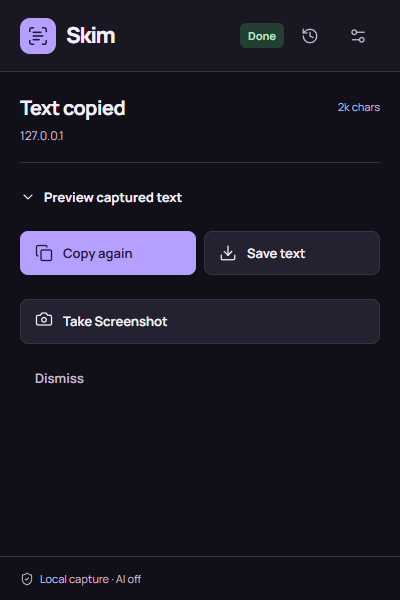
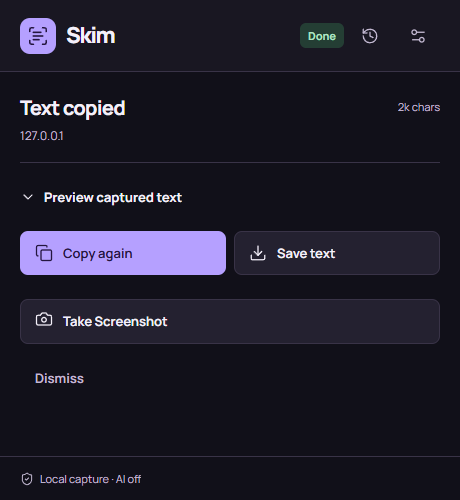
style: make the fixed popup wider and shorter

diff --git a/popup.css b/popup.css
@@ -2,7 +2,7 @@
 *,*::before,*::after{box-sizing:border-box;margin:0;padding:0}
 :root{color-scheme:dark;--bg:#111019;--surface:#191722;--surface2:#242130;--border:#393347;--border2:#625970;--text:#f4f0fa;--muted:#c3b9d2;--dim:#b2a6c3;--accent:#b5a0ff;--accent-bg:#352b50;--accent-fg:#d5c8ff;--on-accent:#24163f;--ok-bg:#243e34;--ok-fg:#b0e4c4;--err-bg:#472f2b;--err-fg:#ffbcae;--r:12px;--r-sm:8px}
 [data-theme=light]{color-scheme:light;--bg:#f6f3fa;--surface:#fffdfF;--surface2:#ede7f5;--border:#d8cee5;--border2:#afa0c2;--text:#30233f;--muted:#665276;--dim:#705d80;--accent:#6942b7;--accent-bg:#e9def8;--accent-fg:#563094;--on-accent:#fff;--ok-bg:#deeddf;--ok-fg:#285f3d;--err-bg:#f9e5df;--err-fg:#9e3025}
-body{font-family:Manrope,sans-serif;background:var(--bg);color:var(--text);width:400px;max-width:100vw;font-size:13px;line-height:1.55;-webkit-font-smoothing:antialiased}
+body{font-family:Manrope,sans-serif;background:var(--bg);color:var(--text);width:460px;max-width:100vw;font-size:13px;line-height:1.55;-webkit-font-smoothing:antialiased}
 button,input,select,textarea{font:inherit}button{cursor:pointer}button:disabled{opacity:.45;cursor:default}button,input,select,textarea,summary{outline-offset:3px}button:focus-visible,input:focus-visible,select:focus-visible,textarea:focus-visible,summary:focus-visible{outline:2px solid var(--accent)}
 svg{width:18px;height:18px;fill:none;stroke:currentColor;stroke-width:1.75;stroke-linecap:round;stroke-linejoin:round;flex-shrink:0}
 .app-header{display:flex;align-items:center;justify-content:space-between;padding:12px 20px;border-bottom:1px solid var(--border);background:var(--surface)}.logo{display:flex;align-items:center;gap:10px}.logo-box{display:grid;place-items:center;width:36px;height:36px;border-radius:10px;background:var(--accent);color:var(--on-accent)}.logo-box svg{width:22px;height:22px}.logo-name{font-weight:800;font-size:22px;letter-spacing:-.06em}.header-right{display:flex;align-items:center;gap:4px}.icon-btn{width:44px;height:44px;border:0;background:transparent;color:var(--muted);border-radius:var(--r-sm);display:grid;place-items:center}.icon-btn:hover,.icon-btn.active{background:var(--accent-bg);color:var(--accent-fg)}
@@ -15,6 +15,6 @@ details.sec-collapsible{border-top:1px solid var(--border);padding-top:12px}summ
 #history .body{gap:4px;min-height:100px}.h-empty{padding:32px 0;text-align:center;color:var(--muted)}.h-item{display:flex;align-items:center;gap:12px;width:100%;padding:12px 8px;border:0;border-bottom:1px solid var(--border);background:transparent;color:var(--text);text-align:left;min-height:64px}.h-item:hover{background:var(--surface2)}.h-icon{color:var(--muted);display:flex}.h-meta{min-width:0;flex:1}.h-url{font-weight:650;overflow:hidden;text-overflow:ellipsis;white-space:nowrap}.h-info,.h-ago{font-size:11px;color:var(--muted)}.h-footer{display:flex;justify-content:space-between;padding:8px 20px;border-top:1px solid var(--border)}.h-footer .btn{width:auto}.local-footer{padding:12px 20px;color:var(--muted);font-size:11px;border-top:1px solid var(--border);display:flex;align-items:center;gap:6px}.local-footer svg{width:14px;height:14px}
 @media(prefers-reduced-motion:reduce){*,*::before,*::after{animation:none!important;transition:none!important}.fill.pulse{width:50%}}
 
-body{display:flex;flex-direction:column;height:600px;max-height:600px;overflow:hidden}.app-header,.local-footer,#youtube-controls{flex-shrink:0}.panel{min-height:0;flex:1;max-height:none}.local-footer{margin-top:auto}
+body{display:flex;flex-direction:column;height:500px;max-height:500px;overflow:hidden}.app-header,.local-footer,#youtube-controls{flex-shrink:0}.panel{min-height:0;flex:1;max-height:none}.local-footer{margin-top:auto}
 .app-header{height:72px}.local-footer{height:44px}.local-footer span{min-width:0;overflow:hidden;text-overflow:ellipsis;white-space:nowrap}
 /* A fixed frame: only the active panel scrolls between loading, review and settings. */

diff --git a/TESTING.md b/TESTING.md
@@ -22,7 +22,7 @@ No production API key is required. The provider tests use synthetic responses. `
 | `verify-capture.cjs` | Browser scroll orchestration, nested crop, restoration and failed-tile handling with simulated tile messages. |
 | `verify-youtube.cjs` | Legacy renderer, earlier view-model and current native view-model layouts: timestamp links, every fixture segment and scroll restoration. |
 | `verify-permissions.cjs` | Exact production manifest in a fresh Chrome profile: native popup registration; no installed host/clipboard-read grants; scripting, screenshot and provider network access denied without permission. |
-| `verify-e2e.cjs` | An isolated unpacked Chromium extension exercising actual scripting, capture, storage, PNG clipboard and downloads. Pixel checks cover nested stitching, ordinary horizontal overflow, part seams, input masks and manually reviewed masks. Full text downloads and all-part ZIPs are read back. Keyboard controls and the fixed 400 × 600 popup are checked. |
+| `verify-e2e.cjs` | An isolated unpacked Chromium extension exercising actual scripting, capture, storage, PNG clipboard and downloads. Pixel checks cover nested stitching, ordinary horizontal overflow, part seams, input masks and manually reviewed masks. Full text downloads and all-part ZIPs are read back. Keyboard controls and the fixed 460 × 500 popup are checked. |
 
 E2E fixtures also cover native transcript controls, scrolling, timestamp records and failure without clipboard replacement. They are controlled DOM fixtures, not live YouTube acceptance.
 

diff --git a/README.md b/README.md
@@ -8,7 +8,7 @@ Skim is a local-first Chrome extension for copying page text, UI code and availa
 
 <picture>
   <source media="(prefers-color-scheme: dark)" srcset="docs/images/popup-dark.png">
-  <img src="docs/images/popup-light.png" width="400" alt="Skim's fixed-size purple popup with text preview, copy, save and screenshot controls">
+  <img src="docs/images/popup-light.png" width="460" alt="Skim's fixed-size purple popup with text preview, copy, save and screenshot controls">
 </picture>
 
 ## What it does
@@ -18,7 +18,7 @@ Skim is a local-first Chrome extension for copying page text, UI code and availa
 - **Reviewed screenshots:** stitch full pages or a main scroll pane, add opaque masks by dragging or keyboard coordinates, undo masks, then explicitly copy or save.
 - **Complete captured-output export:** preview and save the current text without the history preview cap; save one PNG or a ZIP containing every reviewed screenshot part.
 - **YouTube transcripts:** read the native transcript when YouTube makes it available, preserving timestamps and links. Live-site limitations are documented below.
-- **Comfortable controls:** consistent local SVGs, purple light/dark themes, keyboard-accessible history and a fixed 400 × 600 frame with internal scrolling.
+- **Comfortable controls:** consistent local SVGs, purple light/dark themes, keyboard-accessible history and a fixed 460 × 500 frame with internal scrolling.
 
 ## Install
 

diff --git a/.impeccable.md b/.impeccable.md
@@ -7,7 +7,7 @@ People capturing web context for AI conversations, research and UI development. 
 Precise, calm, capable. Plain language and honest coverage indicators build confidence.
 
 ### Aesthetic Direction
-A compact editorial utility with purple accents (Kian's explicit preference), bundled Manrope typography and consistent Lucide SVGs. Fixed 400 × 600 popup with internal panel scrolling and consistent 20px padding. Support light and dark themes. Avoid decoration that competes with captured content.
+A compact editorial utility with purple accents (Kian's explicit preference), bundled Manrope typography and consistent Lucide SVGs. Fixed 460 × 500 popup with internal panel scrolling and consistent 20px padding. Support light and dark themes. Avoid decoration that competes with captured content.
 
 ### Design Principles
 - Capture first; keep secondary configuration out of the main flow.

diff --git a/CHANGES.md b/CHANGES.md
@@ -2,6 +2,7 @@
 
 ## 1.2.1 — release candidate
 
+- Resize the fixed popup to 460 × 500, with consistent padding and internal scrolling.
 - Fix live YouTube extraction for the current native transcript view-model and its timestamp/text classes; retain both older layouts.
 - Add layout regressions, native extension clipboard coverage for the current layout and successful live DOM verification.
 - Add exact-production-manifest permission tests with no host grants, proving capture and provider requests are denied before permission.
